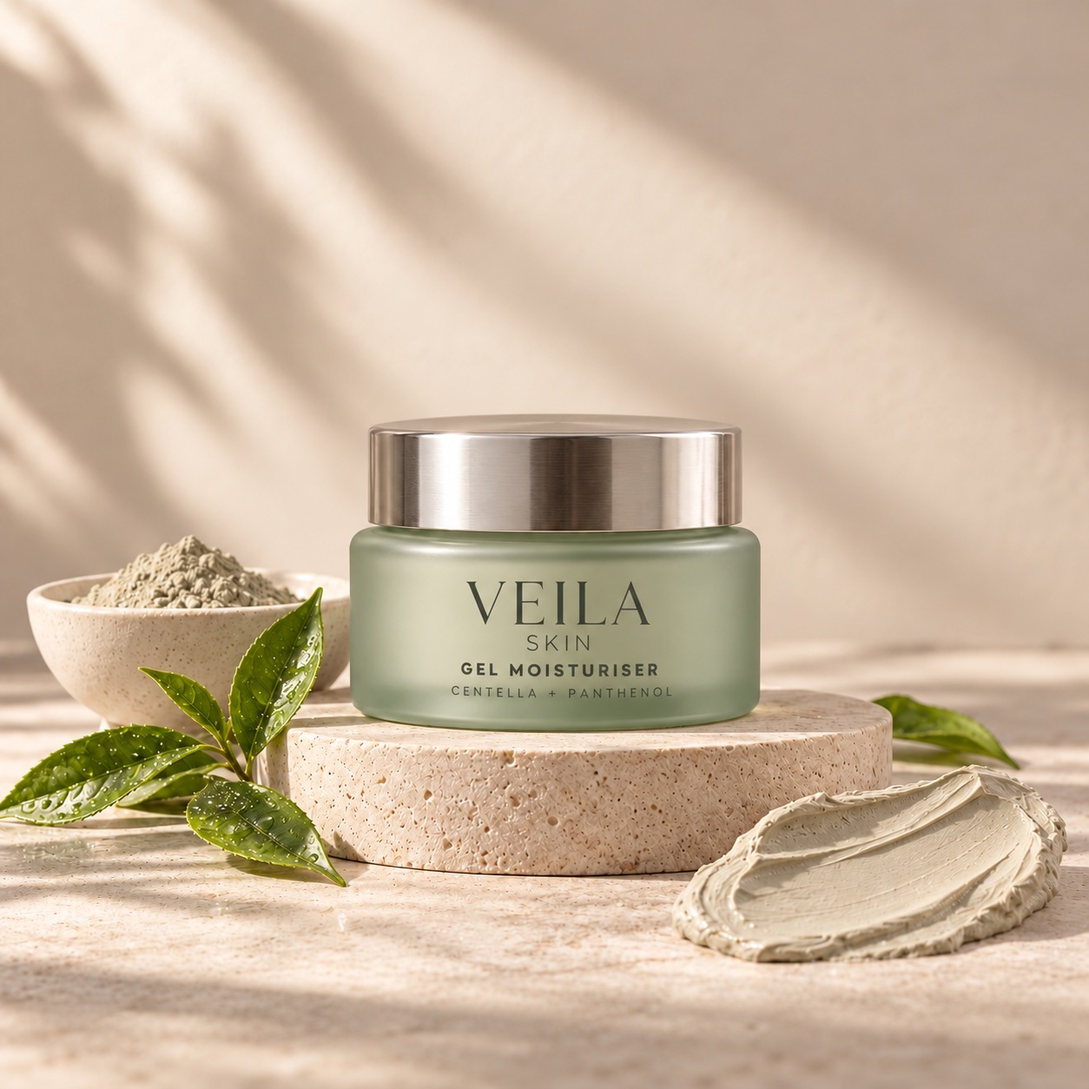
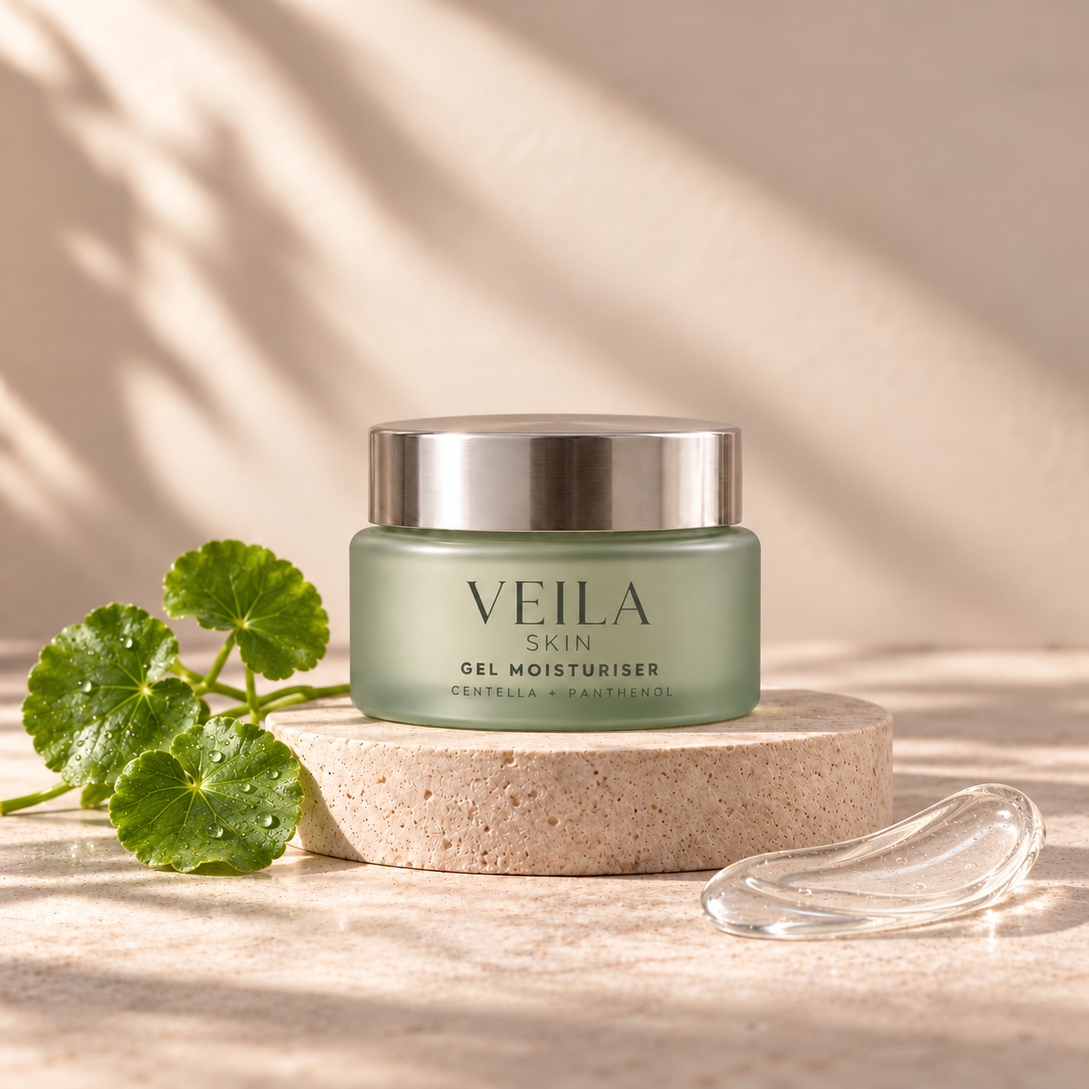
Improve Veila storefront readability and consistency while preserving hero

Changed region(s): [[0.0, 0.4976, 0.3421, 0.8397], [0.622, 0.622, 1.0, 0.9019]]

diff --git a/design/storefront.js b/design/storefront.js
@@ -19,7 +19,7 @@
     ['gel','Meadow Dew Gel Moisturiser','Moisturisers','50 g',1190,'mask','A fresh gel texture in a soft sage jar.','Centella|Panthenol|Glycerin','Water-gel cream','The fresh-texture collection'],
     ['night','Moonlit Peptide Serum','Serums','30 ml',1590,'serum','A quiet final chapter for your evening shelf.','Peptides|Squalane|Glycerin','Silky serum','Evening serum collection']
   ];
-  for(const [id,name,category,size,price,photo,short,ingredients,texture,ritual] of additions){products.push({id,name,category,size,price,photo,short,tag:ritual,bg:'#ebe5d9',texture,ritual,description:short+' Considered packaging, a tactile finish, and a place in your everyday ritual.',ingredients:ingredients.split('|').join(', ')+' are proposed ingredient directions. The formula, suitability and application instructions are not finalized.',notes:ingredients.split('|').map(name=>({name,story:'A proposed part of the '+name.toLowerCase()+' ingredient story. Final selection and concentration will be defined during formulation.'}))});}
+  for(const [id,name,category,size,price,photo,short,ingredients,texture,ritual] of additions){products.push({id,name,category,size,price,photo,short,tag:ritual,bg:'#ebe5d9',texture,ritual,description:short+' Considered packaging, a tactile finish, and a place in your everyday ritual.',ingredients:ingredients.split('|').join(', ')+' are proposed ingredient directions. The formula, suitability and application instructions are not finalized.',notes:ingredients.split('|').map(name=>({name,story:''}))});}
   const note=(name,story)=>({name,story});
   const stories={
     cleanser:[note('Oat','The warm, oat-inspired starting point for our milky cleanser concept.'),note('Glycerin','A clear, understated note in the proposed formula direction.'),note('Aloe','Fresh green aloe shapes the botanical mood of this cleanser.')],
@@ -31,6 +31,25 @@
   };
   products.forEach(p=>{if(stories[p.id])p.notes=stories[p.id];});
   const ingredientEducation={"Hyaluronic acid": "A moisture-binding ingredient commonly used in hydrating skincare. Clear serum droplets illustrate its place in our Dewdrop concept.", "Aloe vera": "An ingredient used in lightweight moisturising skincare. Aloe is part of the proposed direction for our serum and milky cleanser.", "Oat": "Oat inspires our cleanser, serum and body care. Its final ingredient form is still being selected; colloidal oatmeal is a specific form used in soothing skincare.", "Glycerin": "A humectant used to attract moisture. A proposed ingredient in our cleanser, toner, body care and several other Veila essentials.", "Ceramides": "Lipids used in moisturisers to support the skin barrier. Part of the proposed direction for Soft Veil and Rice Cloud.", "Squalane": "An emollient oil used in moisturising skincare. Proposed for Soft Veil and Moonlit; the olive imagery is illustrative, not a sourcing claim.", "Panthenol": "Provitamin B5 is found in moisturising skincare. It features in the proposed ingredient stories for Meadow Dew and Dew Petal.", "Shea butter": "A butter used in moisturising products. It inspires the rich texture direction of our lip balm and body lotion.", "Aloe": "An ingredient used in lightweight moisturising skincare. Aloe is part of the proposed direction for our serum and milky cleanser."};
+  // Ingredient functions are educational, not efficacy claims for unfinished Veila formulas.
+  // Sources: EC inventory (tocopherol): https://ec.europa.eu/health/archive/ph_risk/committees/sccp/documents/out123cm_en.pdf
+  // EC JRC humectant table (betaine): https://publications.jrc.ec.europa.eu/repository/bitstream/JRC126061/jrc126061_pr_cosmetics_final.pdf
+  // Ferulic acid: https://cosmileeurope.eu/inci/detail/5628/ferulic-acid/
+  // Peptide definitions: https://pmc.ncbi.nlm.nih.gov/articles/PMC13054063/
+  // Centella ingredient forms: https://www.cir-safety.org/supplementaldoc/safety-assessment-centella-asiatica-derived-ingredients-used-cosmetics-1
+  Object.assign(ingredientEducation,{
+    'Rose water':'A water-based rose ingredient proposed for Morning Mist. It brings a watery ingredient direction to this essence; its specification and scent profile will be chosen during formulation.',
+    'Plant oils':'A family of oil ingredients proposed for the lip balm texture. The individual oils, their sources and the complete ingredient list have not been selected.',
+    'Vitamin E':'Vitamin E includes forms such as tocopherol, which is used as an antioxidant in cosmetic formulas. The form and concentration for each Veila product are still being selected.',
+    'Kaolin clay':'A mineral clay that gives this mask concept its clay texture. The finished formula and directions will determine how much to apply and how long to leave it on.',
+    'Green tea':'A botanical ingredient derived from Camellia sinensis. The extract type and concentration for Quiet Earth are still being selected; a plant name alone does not establish a finished product benefit.',
+    'Vitamin C derivative':'Vitamin C comes in different ingredient forms. First Light proposes a derivative, but the specific form, concentration and finished-formula performance are not yet confirmed.',
+    'Ferulic acid':'An ingredient used as an antioxidant in cosmetic formulas. It is proposed alongside vitamin C and vitamin E in First Light; the finished combination still needs development and testing.',
+    'Rice extract':'A rice-derived ingredient proposed for Rice Cloud and Dew Petal. The extract specification is still being selected; it is one ingredient direction, not a complete formula.',
+    'Betaine':'A humectant used to help retain moisture in cosmetic formulas. It is proposed alongside oat and glycerin in Cloud Bath; the complete cleansing system is still in development.',
+    'Centella':'Centella asiatica is a botanical used in cosmetic ingredient preparations. The exact extract for Meadow Dew has not been selected; its role in the finished gel will be assessed during formulation.',
+    'Peptides':'Short chains of amino acids used in different cosmetic ingredient preparations. Different peptides serve different roles; the specific ingredients and concentrations for Moonlit are still being selected.'
+  });
   products.forEach(p=>p.notes.forEach(n=>{if(ingredientEducation[n.name])n.story=ingredientEducation[n.name];}));
   const sun=products.find(p=>p.id==='sunscreen');
   sun.ingredients='Sunscreen concept only. UV filters, SPF, UVA protection and all performance claims require formulation and testing; none are confirmed. Glycerin and vitamin E are proposed supporting ingredients. Botanical props are decorative.';
@@ -43,7 +62,9 @@
   const dialog=document.getElementById('product-dialog'),bagDialog=document.getElementById('bag-dialog');
   let category='All',bag={},displayLimit=6;
   try{const saved=JSON.parse(localStorage.getItem('veila-concept-bag')||'{}');for(const p of products){if(Number.isInteger(saved?.[p.id])&&saved[p.id]>0)bag[p.id]=Math.min(saved[p.id],20);}}catch{}
-  function artwork(p,key){return `<img src="assets/veila-products/${p.id}-labelled.jpg" alt="${p.name}, with the product type and proposed ingredient highlights printed on the packaging" width="1254" height="1254" loading="lazy">`;}
+  function artwork(p,key){
+    if(p.id==='set')return `<span class="product-set" role="img" aria-label="The Daily Ritual Set: Cloud Milk Cleanser, Dewdrop Daily Serum and Soft Veil Moisturiser">${['cleanser','serum','cream'].map(id=>`<img src="assets/veila-products/${id}-labelled.jpg" alt="" width="1254" height="1254" loading="lazy">`).join('')}</span>`;
+    return `<img src="assets/veila-products/${p.id}-labelled.jpg" alt="${p.name}, with the product type and proposed ingredient highlights printed on the packaging" width="1254" height="1254" loading="lazy">`;}
   function ingredientChips(p){return `<div class="ingredient-chips" aria-label="Concept ingredients">${p.notes.map(n=>`<span>${n.name}</span>`).join('')}</div>`;}
   function render(){
     const q=search.value.trim().toLowerCase();let list=products.filter(p=>(category==='All'||p.category===category)&&[p.name,p.category,p.short,p.ingredients].join(' ').toLowerCase().includes(q));
@@ -56,7 +77,11 @@
   function setCategory(value){category=value;displayLimit=6;document.querySelectorAll('[data-category]').forEach(b=>b.setAttribute('aria-pressed',String(b.dataset.category===category)));render();}
   document.querySelectorAll('[data-category]').forEach(b=>b.addEventListener('click',()=>setCategory(b.dataset.category)));
   search.addEventListener('input',()=>{displayLimit=6;render();});sort.addEventListener('change',render);
-  document.getElementById('show-more').addEventListener('click',()=>{displayLimit=products.length;render();});
+  document.getElementById('show-more').addEventListener('click',()=>{
+    const previousCount=grid.querySelectorAll('.product-card').length;
+    displayLimit=products.length;render();
+    grid.querySelectorAll('.product-card')[previousCount]?.querySelector('[data-detail]')?.focus();
+  });
   function showProduct(id){const p=products.find(p=>p.id===id);if(!p)return;document.getElementById('product-detail').innerHTML=`<div class="detail-layout"><div class="detail-art" style="--product-bg:${p.bg}">${artwork(p,'detail-'+p.id)}</div><div class="detail-content"><span class="concept-label">Collection concept</span><div class="detail-subtitle">${p.category} · ${p.size}</div><h2 class="serif" id="product-dialog-title">${p.name}</h2><p class="description">${p.description}</p><p class="description">Texture direction: ${p.texture}</p>${ingredientChips(p)}<button class="primary" type="button" data-add="${p.id}"><span>Add to bag</span><span>${money(p.price)} +</span></button><details open><summary>Ingredient story</summary><p>${p.ingredients}</p><div class="detail-ingredients">${p.notes.map(n=>`<div><strong>${n.name}</strong><p>${n.story}</p></div>`).join('')}</div></details><details><summary>Where it fits in your ritual</summary><p>${p.ritual}. Final application directions will be provided with the finished product.</p></details><details><summary>Product & delivery information</summary><p>Size: ${p.size}. This is a concept product with an illustrative price. Orders, delivery and returns are not available yet.</p></details><div id="detail-feedback" role="status" class="catalog-note"></div></div></div>`;dialog.showModal();}
   const ingredientSelect=document.getElementById('ingredient-product');
   let ingredientProduct=products[0];
@@ -81,19 +106,55 @@
   showIngredients(products[0].id);
   function saveBag(){try{localStorage.setItem('veila-concept-bag',JSON.stringify(bag));}catch{}const count=Object.values(bag).reduce((a,b)=>a+b,0);document.querySelector('.bag-count').textContent=count;document.querySelector('[data-bag]').setAttribute('aria-label',`Shopping bag, ${count} items`);}
   function renderBag(){const selected=products.filter(p=>bag[p.id]);document.getElementById('bag-items').innerHTML=selected.length?selected.map(p=>`<div class="bag-item"><div class="bag-item-art" style="--product-bg:${p.bg}">${artwork(p,'bag-'+p.id)}</div><div><h3 class="serif">${p.name}</h3><p>${p.size} · ${money(p.price)}</p><div class="quantity-controls"><button type="button" data-quantity="${p.id}" data-delta="-1" aria-label="Decrease ${p.name} quantity">−</button><span aria-label="Quantity">${bag[p.id]}</span><button type="button" data-quantity="${p.id}" data-delta="1" aria-label="Increase ${p.name} quantity" ${bag[p.id]>=20?'disabled':''}>+</button><button type="button" class="remove" data-remove="${p.id}" aria-label="Remove ${p.name}">Remove</button></div></div></div>`).join(''):'<div class="bag-empty"><p>Your next little ritual starts here.</p><p>Your bag is empty. Explore the collection to find your first essential.</p></div>';document.getElementById('bag-total').textContent=money(selected.reduce((sum,p)=>sum+p.price*bag[p.id],0));}
+  const bagStatus=document.createElement('p');
+  bagStatus.id='bag-feedback';bagStatus.className='catalog-note bag-feedback';
+  bagStatus.setAttribute('role','status');bagStatus.setAttribute('aria-live','polite');bagStatus.setAttribute('aria-atomic','true');
+  bagDialog.querySelector('.bag-total').after(bagStatus);
+  function announceBag(message){
+    const count=Object.values(bag).reduce((sum,quantity)=>sum+quantity,0);
+    const total=products.reduce((sum,p)=>sum+p.price*(bag[p.id]||0),0);
+    bagStatus.textContent=`${message} ${count} item${count===1?'':'s'} in your preview bag. Concept subtotal ${money(total)}.`;
+  }
+  function focusBagRow(index){
+    const rows=bagDialog.querySelectorAll('.bag-item');
+    const row=rows[Math.max(0,Math.min(index,rows.length-1))];
+    (row?.querySelector('[data-quantity]:not(:disabled)')||bagDialog.querySelector('[data-continue]')).focus({preventScroll:true});
+  }
+  function focusSection(id,preferred){
+    const section=document.getElementById(id);if(!section)return;
+    const target=preferred||section.querySelector('h1,h2')||section;
+    if(!target.matches('button,input,select,a[href],[tabindex]'))target.setAttribute('tabindex','-1');
+    target.focus({preventScroll:true});
+    section.scrollIntoView({behavior:matchMedia('(prefers-reduced-motion: reduce)').matches?'instant':'smooth'});
+  }
   let toastTimer;function notify(message){const el=document.getElementById('preview-status');el.textContent=message;el.classList.add('visible');clearTimeout(toastTimer);toastTimer=setTimeout(()=>el.classList.remove('visible'),3000);}
   document.addEventListener('click',event=>{
-    const ingredient=event.target.closest('[data-ingredients]');if(ingredient){showIngredients(ingredient.dataset.ingredients);document.getElementById('ingredients').scrollIntoView();ingredientSelect.focus({preventScroll:true});}
-    const categoryJump=event.target.closest('[data-shop-category]');if(categoryJump){search.value='';setCategory(categoryJump.dataset.shopCategory);document.getElementById('collection').scrollIntoView();}
+    const ingredient=event.target.closest('[data-ingredients]');if(ingredient){showIngredients(ingredient.dataset.ingredients);focusSection('ingredients',ingredientSelect);}
+    const categoryJump=event.target.closest('[data-shop-category]');if(categoryJump){search.value='';setCategory(categoryJump.dataset.shopCategory);focusSection('collection');}
     const detail=event.target.closest('[data-detail]');if(detail)showProduct(detail.dataset.detail);
     const add=event.target.closest('[data-add]');if(add){const p=products.find(p=>p.id===add.dataset.add);if(!p)return;const full=(bag[p.id]||0)>=20;if(!full)bag[p.id]=(bag[p.id]||0)+1;saveBag();const message=full?'Maximum of 20 per concept product.':p.name+' added to your bag.';if(dialog.open)document.getElementById('detail-feedback').textContent=message;else notify(message);}
-    if(event.target.closest('[data-bag]')){renderBag();bagDialog.showModal();}
-    const quantity=event.target.closest('[data-quantity]');if(quantity){const id=quantity.dataset.quantity;bag[id]=Math.max(0,Math.min(20,bag[id]+Number(quantity.dataset.delta)));if(!bag[id])delete bag[id];saveBag();renderBag();const next=bagDialog.querySelector(`[data-quantity="${id}"][data-delta="${quantity.dataset.delta}"]`);(next||bagDialog.querySelector('[data-close]')).focus();}
-    const remove=event.target.closest('[data-remove]');if(remove){delete bag[remove.dataset.remove];saveBag();renderBag();bagDialog.querySelector('[data-close]').focus();}
-    if(event.target.closest('[data-reset]')){search.value='';sort.value='featured';setCategory('All');}
+    if(event.target.closest('[data-bag]')){bagStatus.textContent='';renderBag();bagDialog.showModal();}
+    const quantity=event.target.closest('[data-quantity]');
+    if(quantity){
+      const id=quantity.dataset.quantity,p=products.find(p=>p.id===id);if(!p)return;
+      const index=[...bagDialog.querySelectorAll('.bag-item')].indexOf(quantity.closest('.bag-item'));
+      bag[id]=Math.max(0,Math.min(20,bag[id]+Number(quantity.dataset.delta)));
+      if(!bag[id])delete bag[id];saveBag();renderBag();
+      const next=bagDialog.querySelector(`[data-quantity="${id}"][data-delta="${quantity.dataset.delta}"]:not(:disabled)`)
+        ||bagDialog.querySelector(`[data-quantity="${id}"]:not(:disabled)`);
+      if(next)next.focus({preventScroll:true});else focusBagRow(index);
+      announceBag(bag[id]?`${p.name} quantity ${bag[id]}.${bag[id]===20?' Maximum quantity reached.':''}`:`${p.name} removed.`);
+    }
+    const remove=event.target.closest('[data-remove]');
+    if(remove){
+      const id=remove.dataset.remove,p=products.find(p=>p.id===id);if(!p)return;
+      const index=[...bagDialog.querySelectorAll('.bag-item')].indexOf(remove.closest('.bag-item'));
+      delete bag[id];saveBag();renderBag();focusBagRow(index);announceBag(`${p.name} removed.`);
+    }
+    if(event.target.closest('[data-reset]')){search.value='';sort.value='featured';setCategory('All');search.focus({preventScroll:true});}
     const close=event.target.closest('[data-close]');if(close)close.closest('dialog').close();
-    const jump=event.target.closest('[data-jump]');if(jump){document.getElementById(jump.dataset.jump).scrollIntoView({behavior:matchMedia('(prefers-reduced-motion: reduce)').matches?'instant':'smooth'});const menu=document.getElementById('menu-toggle');menu.setAttribute('aria-expanded','false');menu.textContent='Menu +';document.getElementById('mobile-navigation').classList.remove('is-open');}
-    if(event.target.closest('[data-continue]')){bagDialog.close();document.getElementById('collection').scrollIntoView();}
+    const jump=event.target.closest('[data-jump]');if(jump){focusSection(jump.dataset.jump);const menu=document.getElementById('menu-toggle');menu.setAttribute('aria-expanded','false');menu.textContent='Menu +';document.getElementById('mobile-navigation').classList.remove('is-open');}
+    if(event.target.closest('[data-continue]')){bagDialog.close();focusSection('collection');}
   });
   [dialog,bagDialog].forEach(d=>d.addEventListener('click',event=>{if(event.target===d){const r=d.getBoundingClientRect();if(event.clientX<r.left||event.clientX>r.right||event.clientY<r.top||event.clientY>r.bottom)d.close();}}));
   saveBag();render();

diff --git a/design/veila-refined.css b/design/veila-refined.css
@@ -40,3 +40,132 @@
 .details-section .faq summary:hover{color:#6d805e}
 @media(max-width:1050px){.details-section{gap:6%;grid-template-columns:.85fr 1.3fr}.details-section .faq summary{font-size:16px;gap:11px;grid-template-columns:20px 1fr 18px}.faq-answer{padding-left:31px;padding-right:18px}.details-section .section-heading{font-size:39px}}
 @media(max-width:760px){.details-section{grid-template-columns:1fr;gap:32px;padding:64px 24px}.details-section .section-heading{font-size:41px}.faq-intro{max-width:300px;font-size:14px;margin:20px 0 10px}.details-section .faq summary{font-size:17px;padding:22px 0;gap:10px}.details-section .faq p{font-size:14px;line-height:1.85}.faq-answer{padding:0 20px 24px 30px}.faq-collection-link{font-size:12px}}
+
+/* Readable product information and comfortable controls across the storefront. */
+/* Scope these tokens to content below the hero; the first screen retains its original colors. */
+.section,.editorial-strip,.site-footer,.shop-dialog{--muted:#596550;--sage:#637451}
+.section-kicker,.details-section .section-kicker{font-size:12px;letter-spacing:.14em;color:#536448}
+.section-top p,.product-description,.ingredient-copy>p:not(.section-kicker):not(.catalog-note),.ritual-copy>p,.philosophy>p:last-child,.clarity-heading>p:not(.section-kicker),.clarity-principles p,.library-entry-body p{font-size:16px;line-height:1.75;color:#4f5f45}
+.section-top p{max-width:380px}
+.editorial-strip>span,.editorial-strip a{font-size:12px;line-height:1.6}
+.editorial-strip a{display:inline-flex;align-items:center;min-height:44px}
+.category-tabs button{min-height:44px;font-size:14px;padding:11px 16px}
+.shop-tools{font-size:14px;gap:16px}
+.search-wrap input,.sort-wrap select,.ingredient-selector select{font-size:16px;min-height:44px}
+.search-wrap{max-width:360px}
+.sort-wrap{font-size:14px;flex-wrap:wrap}
+.product-count{font-size:12px;color:#526249}
+.product-grid{align-items:start;gap:48px 28px}
+.product-visual{height:auto;aspect-ratio:1/1.04}
+.product-visual:after{font-size:14px}
+.product-tag{font-size:12px;line-height:1.5;letter-spacing:.035em;padding:8px 12px;background:#fcf9eff2;max-width:calc(100% - 24px)}
+.product-meta{font-size:12px;line-height:1.5;gap:12px;margin-top:20px;color:#536448}
+.product-title{font-size:32px;line-height:1.15;min-height:0;margin:10px 0 12px}
+.product-title button{min-height:44px}
+.product-description{min-height:0;margin-bottom:16px}
+.ingredient-chips{min-height:0;gap:8px;margin-bottom:8px}
+.ingredient-chips span{font-size:12px;line-height:1.5;padding:6px 10px;color:#455b3b;background:#e8eddf}
+.ingredient-story-link{font-size:14px;line-height:1.5;min-height:44px;padding:10px 0 14px;color:#455b3b}
+.product-buy>span{font-size:16px}
+.add-button{font-size:14px;min-height:44px;padding:10px 0 10px 12px}
+.collection-more button,.outline-button{font-size:14px;min-height:44px}
+.catalog-note,.ingredient-copy .catalog-note,.library-footnote>p,.library-footnote details{font-size:12px;line-height:1.75;color:#526249}
+.library-footnote summary{min-height:44px}
+.library-footnote a{display:inline-block;padding:8px 0}
+.ingredient-selector{font-size:12px;letter-spacing:.08em;color:#536448}
+.ingredient-selector select{max-width:100%}
+.ingredient-notes .note-number,.library-number{font-size:12px;color:#536448}
+.ingredient-notes button{min-height:56px}
+.photo-caption,.library-photo figcaption{font-size:12px;line-height:1.5;letter-spacing:.06em;background:#faf6edf2;color:#455b3b}
+.library-role{font-size:12px;letter-spacing:.1em;color:#536448}
+.library-entry-body button,.clarity-link,.clarity-principles a{font-size:14px;min-height:44px;line-height:1.5}
+.clarity-principles article>span{font-size:12px;color:#536448}
+.step-number,.step-detail{font-size:12px;line-height:1.6;color:#526249}
+.step-link{min-width:44px;min-height:44px}
+.ritual-picture>span:not(.product-set){font-size:12px;line-height:1.5;letter-spacing:.06em;background:#faf6edf2;color:#455b3b}
+.footer-tagline,.footer-links{font-size:14px;line-height:1.7}
+.footer-links a,.footer-shop button,.footer-bottom a{display:inline-flex;align-items:center;min-height:44px}
+.footer-shop button{font-size:14px;line-height:1.5;padding:10px 0}
+.footer-bottom{font-size:12px;line-height:1.75;color:#d5decf}
+.footer-tagline{color:#d5decf}
+.detail-content .description,.detail-content details,.detail-ingredients p,.bag-intro,.bag-item p,.bag-empty{font-size:16px;line-height:1.75;color:#4f5f45}
+.detail-content .primary,.bag-content .primary{font-size:14px;min-height:44px}
+.detail-content summary{min-height:44px;display:flex;align-items:center;line-height:1.6}
+.detail-subtitle,.concept-label{font-size:12px;line-height:1.6;color:#526249}
+.dialog-close{width:44px;height:44px}
+.quantity-controls{gap:10px;flex-wrap:wrap;font-size:14px}
+.quantity-controls button{min-width:44px;height:44px;font-size:16px}
+.quantity-controls .remove{font-size:14px;padding:10px 0;min-width:44px}
+.bag-item{grid-template-columns:86px minmax(0,1fr);gap:16px}
+.bag-item-art{height:100px}
+.faq-number{font-size:12px;color:#526249;line-height:2.2}
+.details-section .faq p,.faq-intro{font-size:16px;line-height:1.75;color:#4f5f45}
+.faq-answer a,.faq-collection-link{font-size:14px;min-height:44px}
+
+/* The same three real product photographs represent the set in every context. */
+.product-set,:is(.product-visual,.ingredient-picture,.detail-art,.bag-item-art,.ritual-picture)>.product-set{position:relative;inset:auto;display:grid;grid-template-columns:repeat(3,minmax(0,1fr));align-items:center;gap:4px;width:100%;height:100%;padding:0;margin:0;background:#e9e3d6;overflow:hidden;border-radius:0;font-size:inherit;letter-spacing:normal}
+.product-set>img,:is(.product-visual,.ingredient-picture,.detail-art,.bag-item-art,.ritual-picture) .product-set>img{position:relative;inset:auto;display:block;width:100%;height:100%;min-width:0;max-height:100%;object-fit:contain;object-position:center;transform:none;transition:none;padding:0}
+.detail-art>.product-set{min-height:480px}
+.bag-item-art>.product-set{gap:1px}
+.ritual-picture>.product-set{padding:20px 0 50px}
+
+@media(max-width:1050px){.product-grid{grid-template-columns:repeat(2,minmax(0,1fr))}.product-title{font-size:30px}.section-top{align-items:start}.section-top p{max-width:330px}.shop-tools{flex-wrap:wrap}.sort-wrap{margin-left:auto}}
+@media(max-width:760px){
+ .section{padding:60px 24px}
+ .section-top p{max-width:none}
+ .product-grid{gap:36px 20px}
+ .product-visual{height:auto;aspect-ratio:1/1.04;border-radius:80px 80px 3px 3px}
+ .product-title{font-size:30px;min-height:0}
+ .product-description{font-size:16px;min-height:0}
+ .product-tag{font-size:12px;left:10px;right:10px;bottom:12px;padding:7px 10px}
+ .product-meta{font-size:12px;gap:8px}
+ .ingredient-chips{min-height:0}
+ .ingredient-chips span{font-size:12px}
+ .ingredient-story-link{font-size:14px}
+ .product-buy>span{font-size:16px}
+ .add-button{font-size:14px}
+ .category-tabs{gap:8px;padding-bottom:12px}
+ .category-tabs button{font-size:14px;min-height:44px}
+ .sort-wrap{font-size:14px;max-width:100%}
+ .sort-wrap select{max-width:180px}
+ .search-wrap{max-width:none}
+ .editorial-strip>span,.editorial-strip a{font-size:12px}
+ .ingredient-copy>p:not(.section-kicker):not(.catalog-note),.library-entry-body p{font-size:16px}
+ .ingredient-copy .catalog-note,.photo-caption,.library-photo figcaption{font-size:12px}
+ .ingredient-notes .serif{font-size:28px}
+ .library-entry-body{padding-left:0}
+ .photo-caption{left:16px;right:16px;bottom:16px}
+ .detail-content{padding:28px 24px}
+ .detail-art>.product-set{min-height:270px}
+ .footer-shop{gap:12px 24px}
+ .footer-shop button{font-size:14px}
+ .footer-links{gap:12px 24px}
+ .details-section .faq p,.faq-intro{font-size:16px}
+ .faq-answer{padding:0 0 24px 0}
+ .faq-collection-link{font-size:14px}
+}
+@media(max-width:480px){
+ .product-grid{grid-template-columns:minmax(0,1fr);gap:40px}
+ .product-visual{aspect-ratio:1;border-radius:110px 110px 3px 3px}
+ .product-title{font-size:34px}
+ .ingredient-chips{gap:8px}
+ .product-tag{bottom:16px}
+ .shop-tools{gap:12px}
+ .sort-wrap{margin-left:0;flex:1 1 100%}
+ .sort-wrap select{flex:1;max-width:none;min-width:0}
+ .bag-item{grid-template-columns:70px minmax(0,1fr);gap:12px}
+ .bag-item-art{height:90px}
+ .quantity-controls{gap:8px}
+ .quantity-controls .remove{margin-left:0}
+ .ritual-steps li{grid-template-columns:24px minmax(0,1fr) 44px;gap:10px}
+ .ritual-picture{aspect-ratio:1.1;border-radius:4px 4px 80px 4px}
+ .ritual-picture>.product-set{padding:10px 0 50px}
+}
+
+/* Give the exact-photo triptych a horizontal frame instead of an empty tall arch. */
+.product-visual:has(>.product-set){aspect-ratio:1.8/1;border-radius:24px 24px 3px 3px}
+.ritual-picture:has(>.product-set){aspect-ratio:1.8/1;border-radius:4px 4px 40px 4px}
+.detail-art:has(>.product-set){min-height:0;height:auto;aspect-ratio:1.8/1;align-self:center}
+.detail-art>.product-set{min-height:0}
+.ingredient-picture:has(>.product-set){aspect-ratio:1.8/1;border-radius:24px 24px 3px 3px}
+.ingredient-picture>.product-set{padding:12px 0 48px}

diff --git a/design/veila-hero.html b/design/veila-hero.html
@@ -73,7 +73,7 @@
  <div class="ingredient-layout"><div class="ingredient-picture" id="ingredient-picture"></div><div class="ingredient-copy"><label class="ingredient-selector" for="ingredient-product">EXPLORE A PRODUCT<select id="ingredient-product"></select></label><p class="section-kicker">PROPOSED INGREDIENT STORY</p><h3 class="serif" id="ingredient-name"></h3><p id="ingredient-intro"></p><div id="ingredient-notes" class="ingredient-notes"></div><p id="ingredient-description" role="status"></p><button type="button" class="text-link" id="ingredient-view-product" data-detail="serum">Explore this essential ↗</button><p id="ingredient-disclaimer" class="catalog-note"></p></div></div>
 </section>
 <section class="section ritual" id="ritual" aria-labelledby="ritual-title">
-  <div class="ritual-picture"><img src="assets/veila-products/set-labelled.jpg" width="1254" height="1254" loading="lazy" alt="Veila cleanser, serum and moisturiser on limestone with oat and aloe ingredient styling"><span>THE DAILY RITUAL / VEILA SKIN</span></div>
+  <div class="ritual-picture"><div class="product-set" role="img" aria-label="The Daily Ritual Set: Cloud Milk Cleanser, Dewdrop Daily Serum and Soft Veil Moisturiser"><img src="assets/veila-products/cleanser-labelled.jpg" alt="" width="1254" height="1254" loading="lazy"><img src="assets/veila-products/serum-labelled.jpg" alt="" width="1254" height="1254" loading="lazy"><img src="assets/veila-products/cream-labelled.jpg" alt="" width="1254" height="1254" loading="lazy"></div><span>THE DAILY RITUAL / VEILA SKIN</span></div>
   <div class="ritual-copy"><div class="section-kicker">Find your rhythm</div><h2 class="section-heading serif" id="ritual-title">Three little steps.<br><em>One moment for you.</em></h2><p>Less rushing. More ritual. Get to know the three essentials at the heart of our first collection.</p><ol class="ritual-steps"><li><span class="step-number">01</span><div><span class="step-title">A fresh beginning</span><span class="step-detail">Cloud Milk Cleanser · the first step</span></div><button class="step-link" type="button" data-detail="cleanser" aria-label="Explore Cloud Milk Cleanser">↗</button></li><li><span class="step-number">02</span><div><span class="step-title">A little layer of care</span><span class="step-detail">Dewdrop Daily Serum · the middle moment</span></div><button class="step-link" type="button" data-detail="serum" aria-label="Explore Dewdrop Daily Serum">↗</button></li><li><span class="step-number">03</span><div><span class="step-title">A softer finish</span><span class="step-detail">Soft Veil Moisturiser · the final layer</span></div><button class="step-link" type="button" data-detail="cream" aria-label="Explore Soft Veil Moisturiser">↗</button></li></ol><button type="button" class="outline-button" data-detail="set">Meet the daily ritual set ↗</button></div>
 </section>
 <section class="section philosophy" id="philosophy" aria-labelledby="philosophy-title"><p class="section-kicker">The way we see care</p><h2 class="section-heading serif" id="philosophy-title">Not another thing to do.<br>A little time to <em>just be.</em></h2><p>Veila began with a simple idea: your skincare routine can be a moment you look forward to. Thoughtful textures, quiet design, and space to make a ritual of your own.</p></section>

diff --git a/README.md b/README.md
@@ -17,7 +17,7 @@ Visit http://127.0.0.1:4173/. No build or package installation is required. Goog
 ## Design and functionality
 
 - Full-viewport Google Flow video hero using the new 10-second Natural Serum Ritual film. Mouse movement scrubs the opening sequence with eased seeking; leaving the hero returns to the opening shot. The film is encoded with every frame independently seekable. A Play the ritual / Pause film button supports touch and keyboard, and playback pauses offscreen or when the tab is hidden. No autoplay. Reduced-motion preferences disable pointer scrubbing. The transparent, morphing water-drop CTA remains in place.
-- Fifteen original Veila concept products across ten skincare categories: cleansers, toners, serums, moisturisers, sunscreen, masks, essence pads, lip care, body care and sets. Fifteen coordinated AI-generated product photographs show the product type and proposed ingredient highlights directly on the packaging.
+- Fifteen original Veila concept products across ten skincare categories: cleansers, toners, serums, moisturisers, sunscreen, masks, essence pads, lip care, body care and sets. Coordinated product photographs show the product type and proposed ingredient highlights directly on the packaging. The ritual set reuses the same cleanser, serum and moisturiser images as the individual products.
 - Category filters, product/ingredient search, price/name sorting, progressive collection loading and empty results handling.
 - An eight-entry ingredient library with editorial photography, expandable explanations, source links and links into the corresponding product explorer. A dedicated Veila approach section explains ingredient transparency, routine information and concept status.
 - Visible ingredient chips on every card and an interactive ingredient atelier with a product selector and individual ingredient notes.
@@ -58,3 +58,14 @@ Open this repository folder in Antigravity. Edit the same source files, preview 
 ## Verification
 
 Checked JavaScript syntax, desktop/mobile layouts, category filtering, ingredient search, price sorting, product dialogs, bag quantity/subtotal, removal, empty states, and persistence after reload. The photographic hero is checked for independent layer movement, cap opening and closing, bounded droplets, ingredient library links, desktop/mobile layout, removed controls and browser errors. The active Flow MP4 was verified as exactly 10 seconds at 1280×720, with mouse seeking, explicit playback and responsive framing.
+
+## Below-hero review improvements
+
+The first screen is intentionally preserved from `a473eae` (the pre-team design): hero markup, film, water-drop CTA, hero stylesheet and interaction scripts are unchanged. Review fixes apply below that screen only.
+
+- Product descriptions are 16px; secondary labels and ingredient chips are at least 12px. Text contrast and touch targets are improved, with a single-column catalog on small phones.
+- The serum catalogue uses the ivory dropper artwork; gel moisturiser imagery uses centella and clear gel. Cards, details, bag, ingredients and ritual sets reuse canonical product photographs. The hero film remains its existing version.
+- Expanding the catalog focuses the first newly revealed product. At the quantity limit, focus stays on an enabled control. Removal restores a useful focus target and bag updates are announced. Section jumps move focus to the destination.
+- Ingredient explanations are specific to the selected concept and do not imply tested product results.
+
+Verified unchanged first-screen computed styles at 1440px and 390px, mobile 16px/12px product text, product dialogs, collection expansion, quantity limit, bag removal, announcements, JavaScript syntax and clean browser error logs.

diff --git a/.superdesign/design-system.md b/.superdesign/design-system.md
@@ -36,3 +36,8 @@ The entire Explore Veila CTA is a translucent water droplet, with a rounded body
 
 ### Current hero film
 The active hero uses the 10-second Google Flow Natural Serum Ritual film in assets/veila-hero-v3. Use the photographic scene with the bottle on the right and clear copy on the left. Mouse movement eases through the film; there is no autoplay. Provide an explicit Play the ritual / Pause film control for touch and keyboard, pause when offscreen, and respect reduced motion. The former independent bottle and ingredient layers are archived. Keep the transparent morphing water-drop CTA unchanged.
+
+### Current scope: preserve the first screen
+The user explicitly chose the pre-team hero (`a473eae`) and asked to keep it unchanged. Do not apply the later v4 film, playback controls, mouse-forward ritual or hero-layout changes. The active hero remains the original v3 composition and behavior.
+
+Apply the team review improvements below the hero: readable 16px product body text, 12px secondary labels/chips, stronger contrast, 44px controls, one-column small-phone cards, useful keyboard focus and bag announcements. Scope new color tokens to `.section,.editorial-strip,.site-footer,.shop-dialog` so first-screen colors remain identical. Reuse canonical individual product images in every product surface and the three-image ritual set. Ingredient education must retain the concept/formula distinction.
